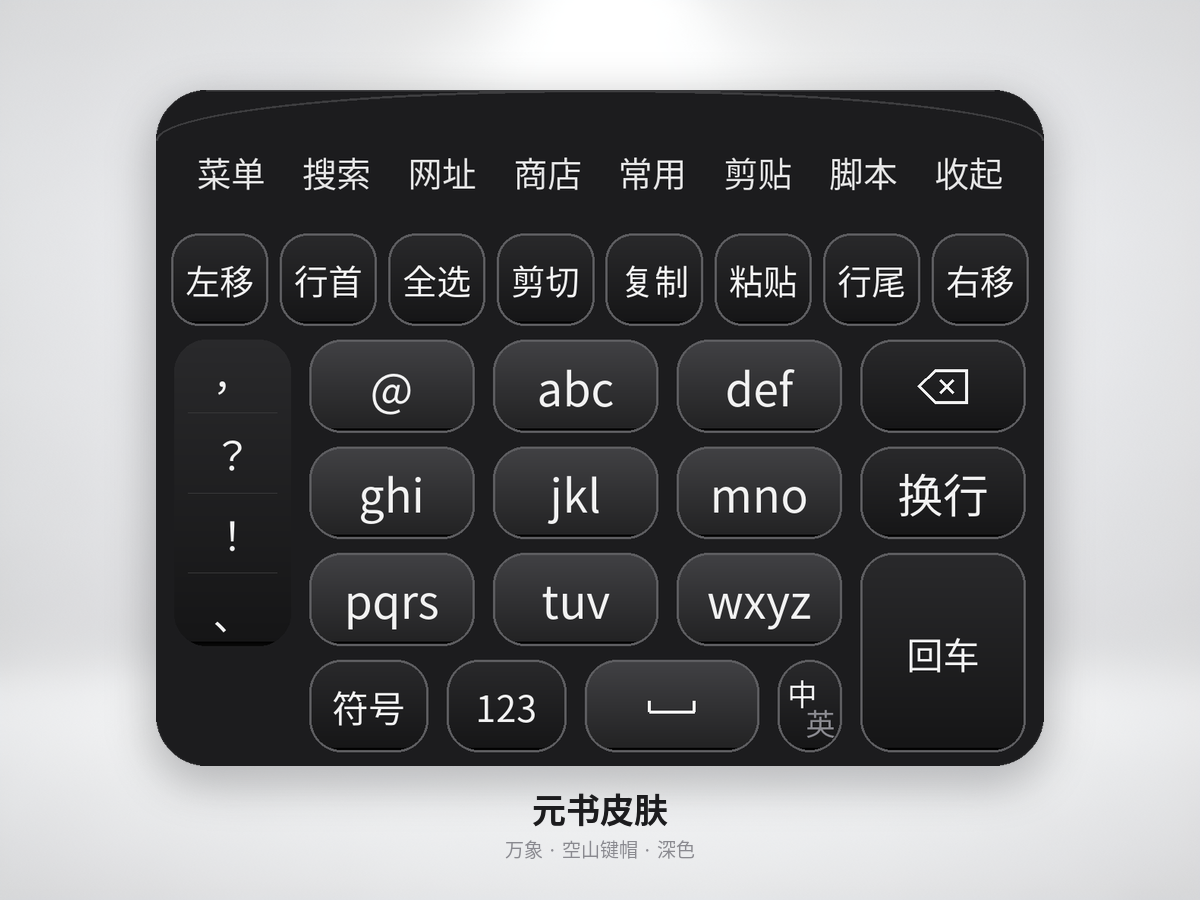
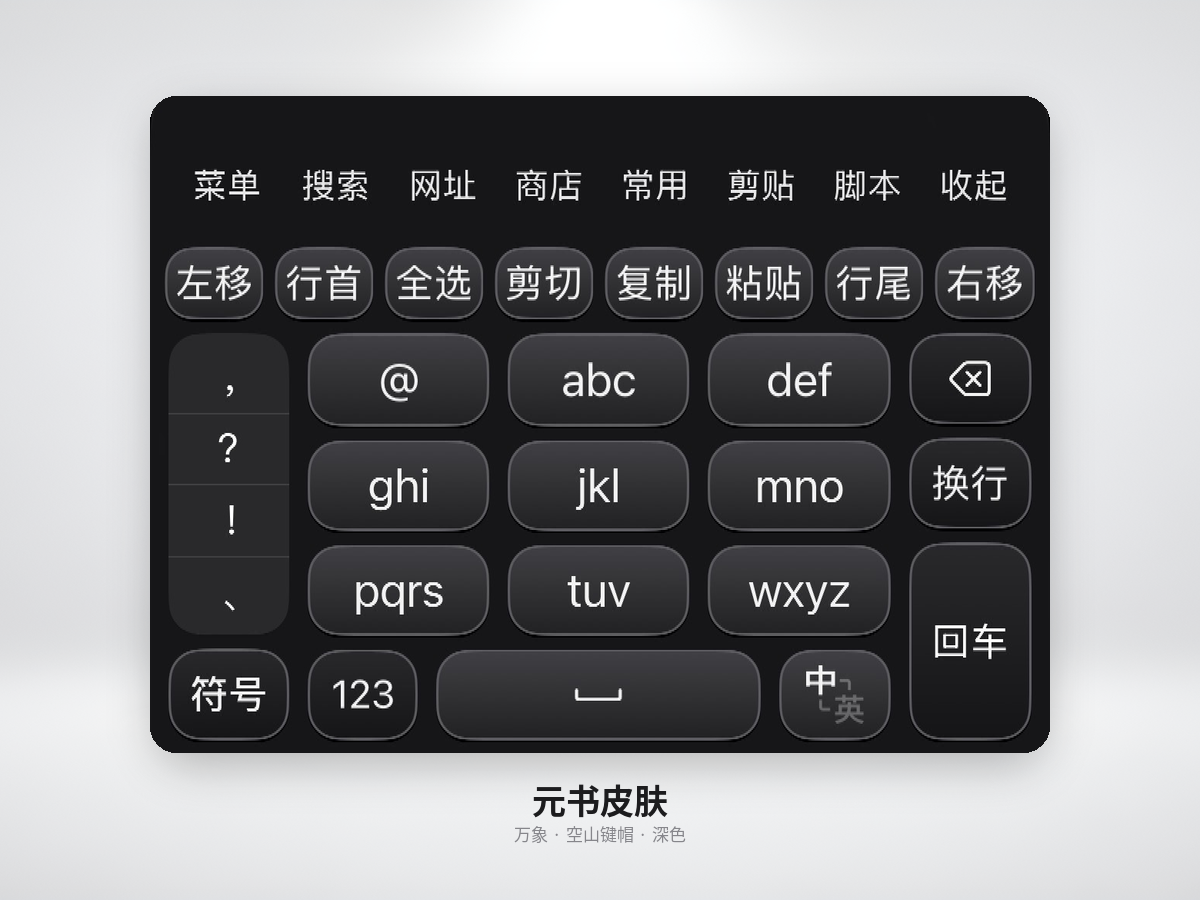
demo 预览图改用真实截图合成
上一版让 gpt-image-2 直接画键盘，试了两轮都不行：第一版把按键写成
拼音/手写/五笔、九宫格标成 1-9 带 ABC；第二版补齐了逐键文字后结构对了，
但键帽比例、圆角、渐变、字距仍是模型自己的理解，和本体差得远。
生图模型不适合复刻像素级确定的 UI。

改成：键盘本体直接用实机截图（photo_DD01E1E6，深色 App 下拍的），
AI 生成的影棚背景只当展示台。这样键帽渐变、描边、字距、图标全是实机
像素，零偏差；生图模型只负责它擅长的背景光影。

裁切按实测边界：背板上边界 y=18，再往下让 40px 让开 preedit 预留空区，
下边裁到 912 去掉截图底部杂边，四角按 26px 重切圆角并补投影。

diff --git a/tools/make_demo.py b/tools/make_demo.py
@@ -1,0 +1,59 @@
+"""用真实截图合成 demo 预览图：截图作为本体，AI 生成的影棚背景作为展示台。
+比让生图模型画键盘可靠——键帽渐变、描边、字距全是实机像素，零偏差。
+"""
+from PIL import Image, ImageDraw, ImageFilter, ImageFont
+
+SHOT = "/var/minis/attachments/uploads/photo_DD01E1E6.jpeg"
+STAGE = "/var/minis/workspace/skinwork/stage.png"
+OUT = "/var/minis/workspace/hs/demo.png"
+
+SHOT_TOP = 58          # 背板上边界 18 + preedit 预留空区 40px，裁掉后构图更紧凑
+CORNER = 26            # 顶部圆角，裁切后自己重切
+
+W, H = 1200, 900
+
+# ---- 展示台 ----
+stage = Image.open(STAGE).convert("RGB")
+sw, sh = stage.size
+sc = max(W / sw, H / sh)
+stage = stage.resize((round(sw * sc), round(sh * sc)), Image.LANCZOS)
+bg = stage.crop(((stage.width - W) // 2, (stage.height - H) // 2,
+                 (stage.width - W) // 2 + W, (stage.height - H) // 2 + H))
+
+# ---- 键盘本体 ----
+kb = Image.open(SHOT).convert("RGB").crop((0, SHOT_TOP, 1170, 912))
+target_w = 900
+kb = kb.resize((target_w, round(kb.height * target_w / kb.width)), Image.LANCZOS)
+
+# 四角统一切圆角
+mask = Image.new("L", kb.size, 0)
+ImageDraw.Draw(mask).rounded_rectangle([0, 0, kb.width - 1, kb.height - 1],
+                                       CORNER, fill=255)
+kb.putalpha(mask)
+
+kx = (W - kb.width) // 2
+ky = 96
+
+# ---- 投影 ----
+sd = Image.new("RGBA", (W, H), (0, 0, 0, 0))
+ImageDraw.Draw(sd).rounded_rectangle(
+    [kx + 6, ky + 16, kx + kb.width - 6, ky + kb.height + 10],
+    CORNER + 8, fill=(0, 0, 0, 68))
+sd = sd.filter(ImageFilter.GaussianBlur(22))
+
+out = bg.convert("RGBA")
+out.alpha_composite(sd)
+out.alpha_composite(kb, (kx, ky))
+
+# ---- 标题 ----
+dr = ImageDraw.Draw(out)
+BOLD = "/usr/share/fonts/noto/NotoSansCJK-Bold.ttc"
+REG = "/usr/share/fonts/noto/NotoSansCJK-Regular.ttc"
+cy = ky + kb.height + 46
+dr.text((W // 2, cy), "元书皮肤", font=ImageFont.truetype(BOLD, 34),
+        fill=(0x1C, 0x1C, 0x1E, 255), anchor="mm")
+dr.text((W // 2, cy + 34), "万象 · 空山键帽 · 深色",
+        font=ImageFont.truetype(REG, 17), fill=(0x86, 0x86, 0x8B, 255), anchor="mm")
+
+out.convert("RGB").save(OUT, "PNG", optimize=True)
+print("saved", OUT, out.size)
